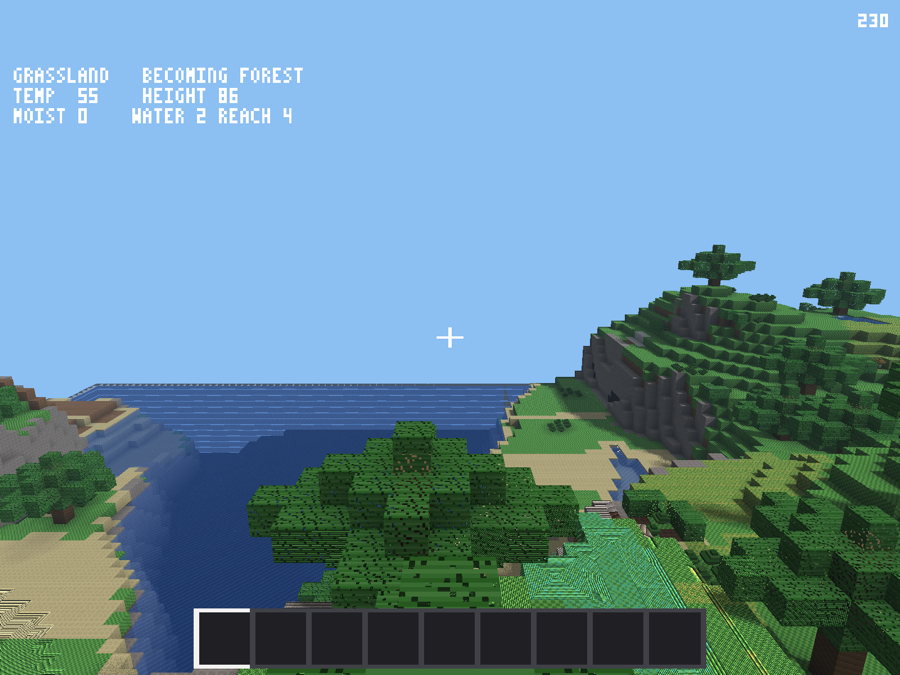
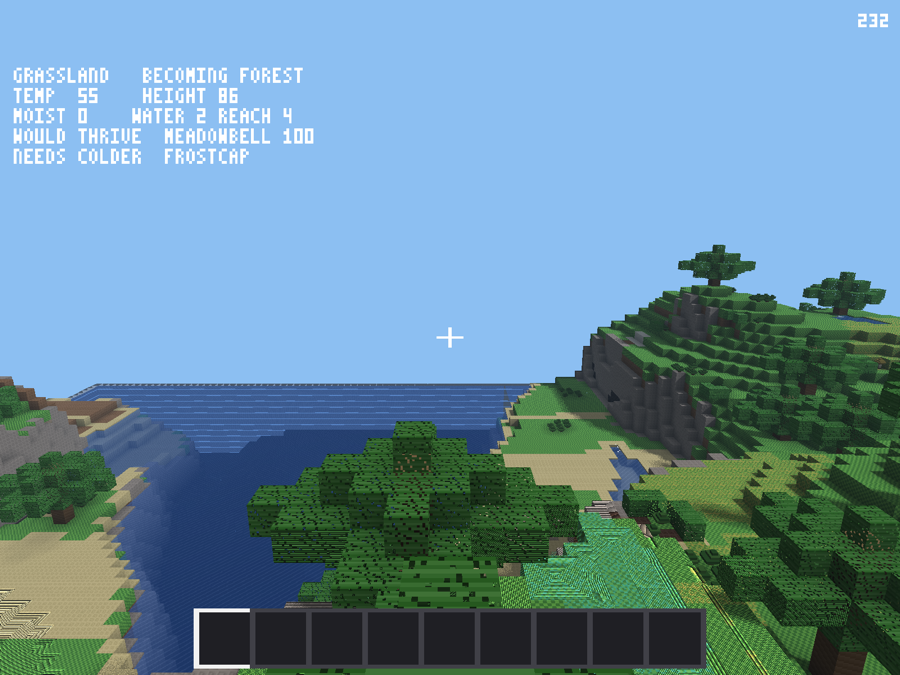
feat(survey): the species half — scanning, and the advice it unlocks
E scans the specimen under the reticle. target_species already resolved a fruit
block to its own species and a mycelium block to its column's shown species --
built for the reticle tint -- so the "fruit or mycelium, either one" the design
settled on was already sitting there.

The panel grows two gated lines, and only for species that have been scanned:

  WOULD THRIVE  MEADOWBELL 100
  NEEDS COLDER  FROSTCAP

The first is Species.best_for restricted to the known set; naming a species the
player has never seen would give away the discovery the scan exists to reward.
The second is the hint that turns a survey into a plan, and it names the one
axis that is short -- moisture before temperature, because moisture moves with
a channel and temperature needs moving earth. Something unscanned under the
reticle reads UNKNOWN SPECIES SCAN.

The known set is a bitmask in the save header. A save written before scanning
existed has no such line, and int_field_or reads it as zero: nothing known,
which is the right answer and needs no migration.

Verified as a round trip rather than in pieces: plant a mature Meadowbell, scan
it, save, and the header records `known 4` -- one bit, the right one. Load that
slot and the panel says WOULD THRIVE MEADOWBELL. A fresh world beside it shows
three lines and no advice.

Two things the knobs had to be honest about. CF_AUTOSCAN scans three columns
east of the player, aim-independent, because a scripted run looks wherever the
[…]

Changed region(s): [[0.0, 0.1867, 0.3733, 0.2489]]

diff --git a/todos.md b/todos.md
@@ -36,7 +36,7 @@ measurements.
 
 ## Play
 
-- [ ] **Survey and scanning** — designed 2026-09-05
+- [x] **Survey and scanning** — done 2026-09-06
   (`docs/superpowers/specs/2026-09-05-survey-and-scanning-design.md`). The
   instrument that makes the existing simulation playable: a survey panel (`Q`)
   showing a place's biome, axes, the inputs the player can change (height,
@@ -44,9 +44,10 @@ measurements.
   map reusing `Biome.active`. Species advice is gated behind scanning (`E`) a
   living specimen, so the six climate bands are a reason to explore. Adds no
   simulation; the canal loop it exposes is already tested by `CF_AUTOCANAL`.
-  Decided: a scan reads fruit or mycelium, either one; the trend ignores the
-  hold counter, which debounces arrival over ~3s while the trend names a
-  destination minutes away. Open: panel legibility against a real frame.
+  Built in two slices: the place half (panel, trend, drift marking) and the
+  species half (scanning, the known bitmask in the save header, the two gated
+  lines). CF_AUTOSURVEY, CF_AUTOSCAN and CF_KNOWN drive it headlessly. The line
+  gap that the design left open measured 0.060 against a 0.045-tall glyph.
 
 ## Engine
 
